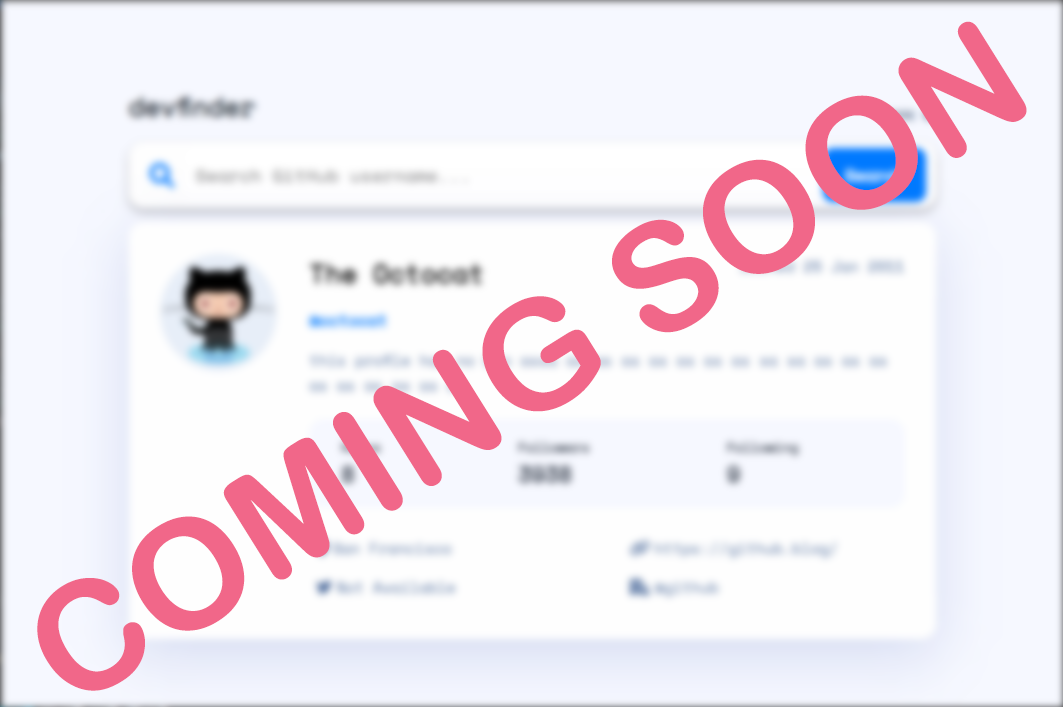
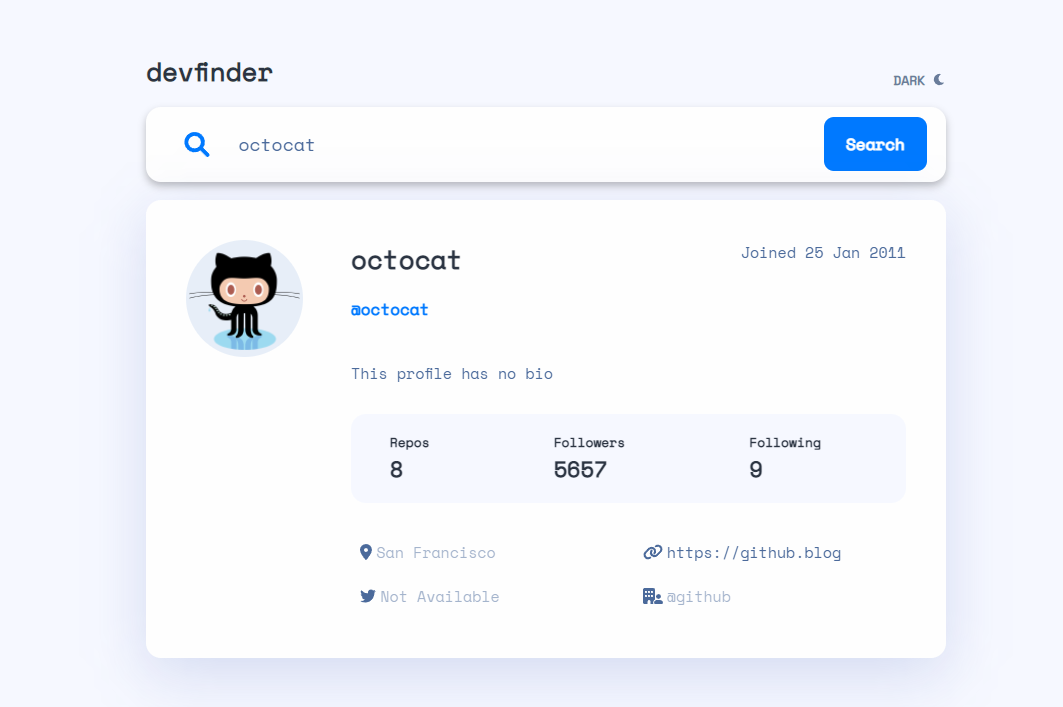
added a new portfolio item

diff --git a/src/Components/Protfolio/data.js b/src/Components/Protfolio/data.js
@@ -10,7 +10,10 @@ export default [
     id: 1,
     imagePath: devfinderImg,
     title: "DevFinder",
-    description: "COMING SOON! GitHub user search app.",
+    description:
+      "A Simple app to search for Github users. Search returns a brief info of the user. Design is based on a Fronend Mentor challenge. I used GitHub users API to pull the info.",
+    websiteLink: "https://sugarixi.github.io/github-user-search/",
+    githubLink: "https://github.com/Sugarixi/github-user-search",
   },
   {
     id: 2,
